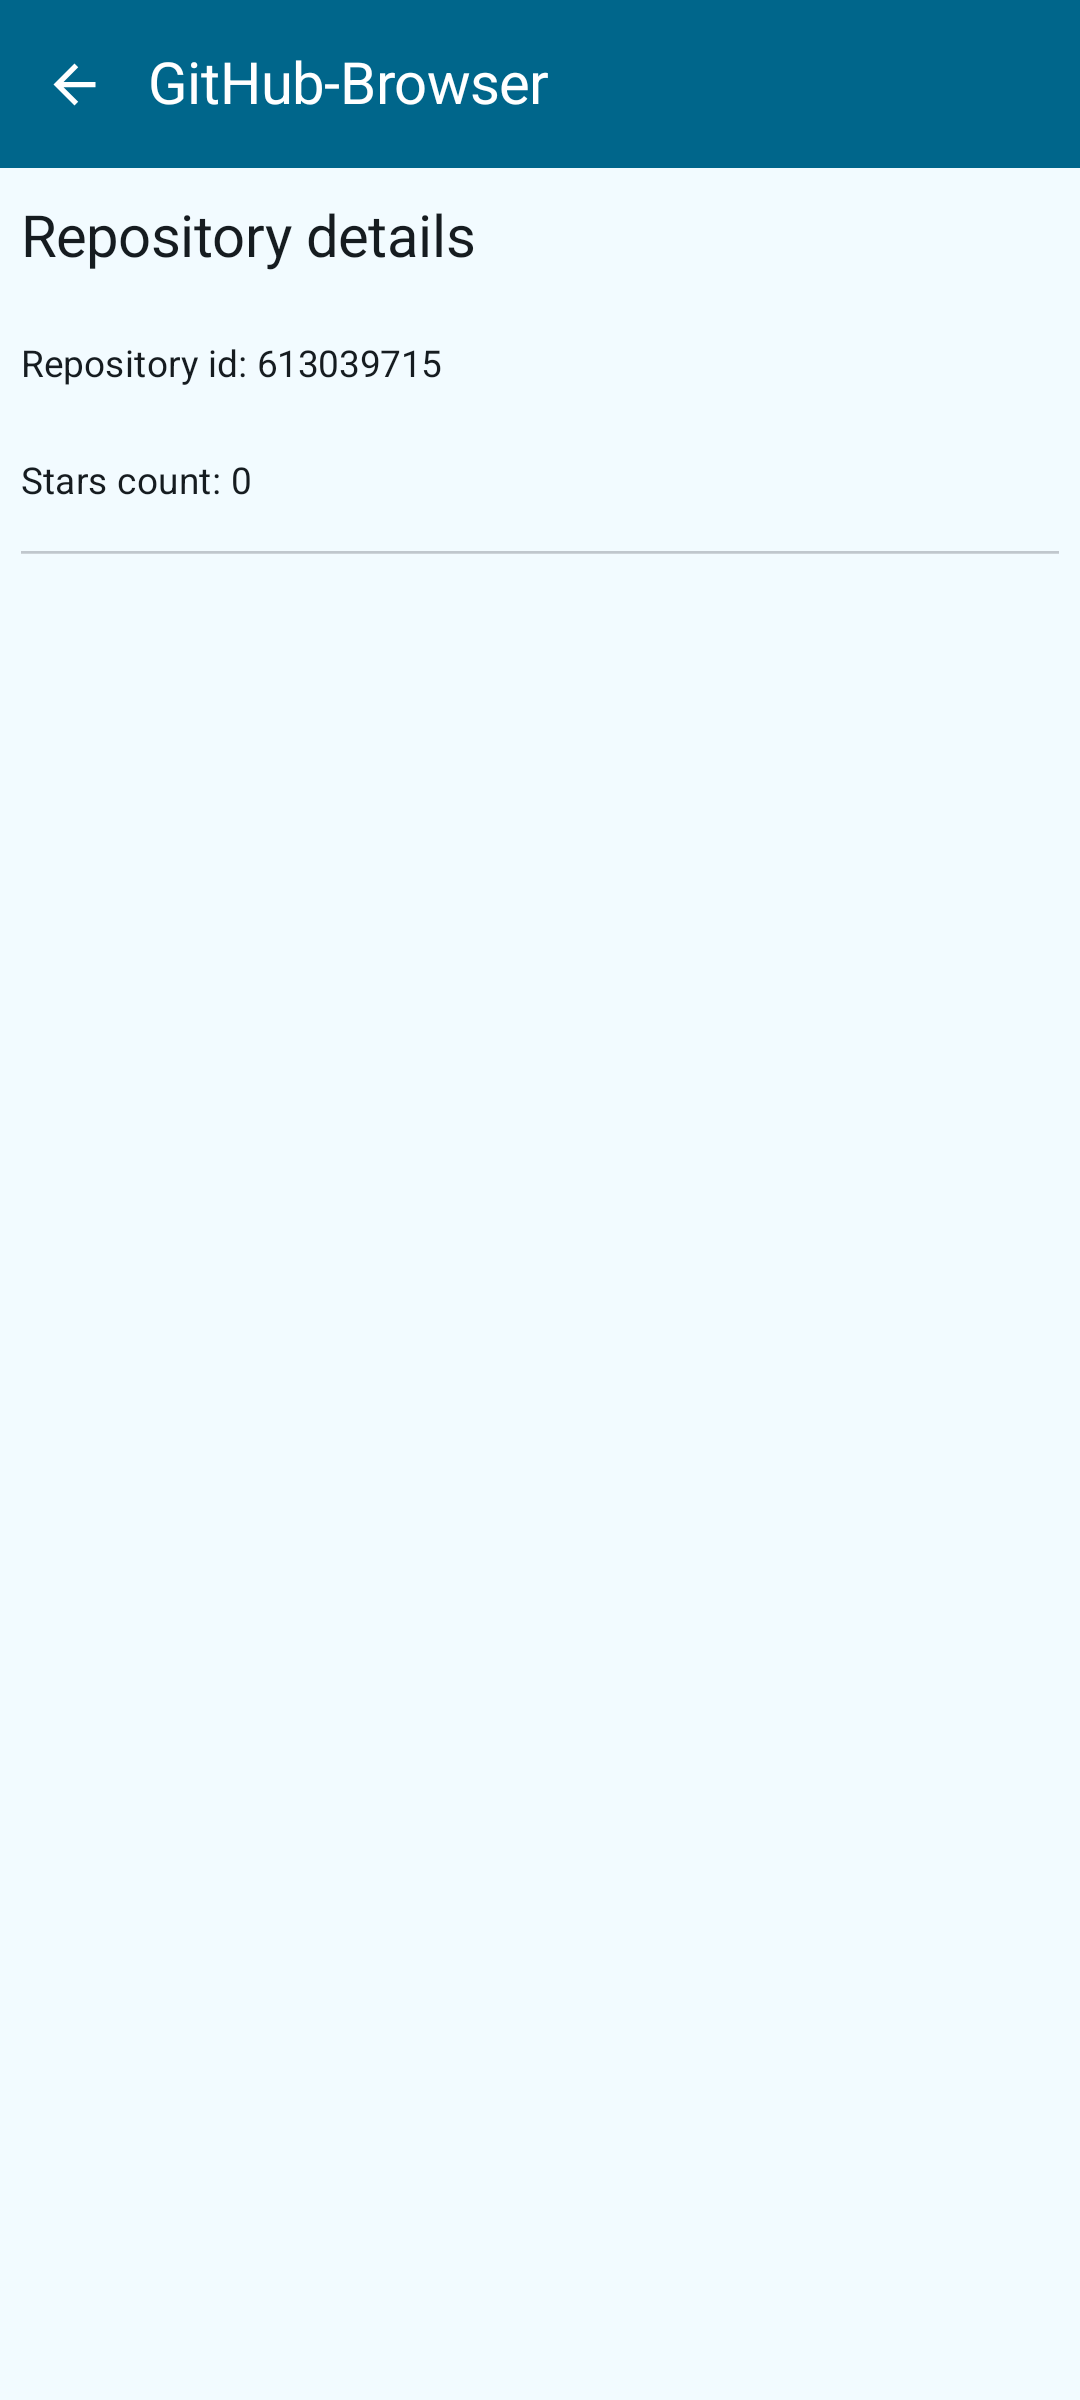
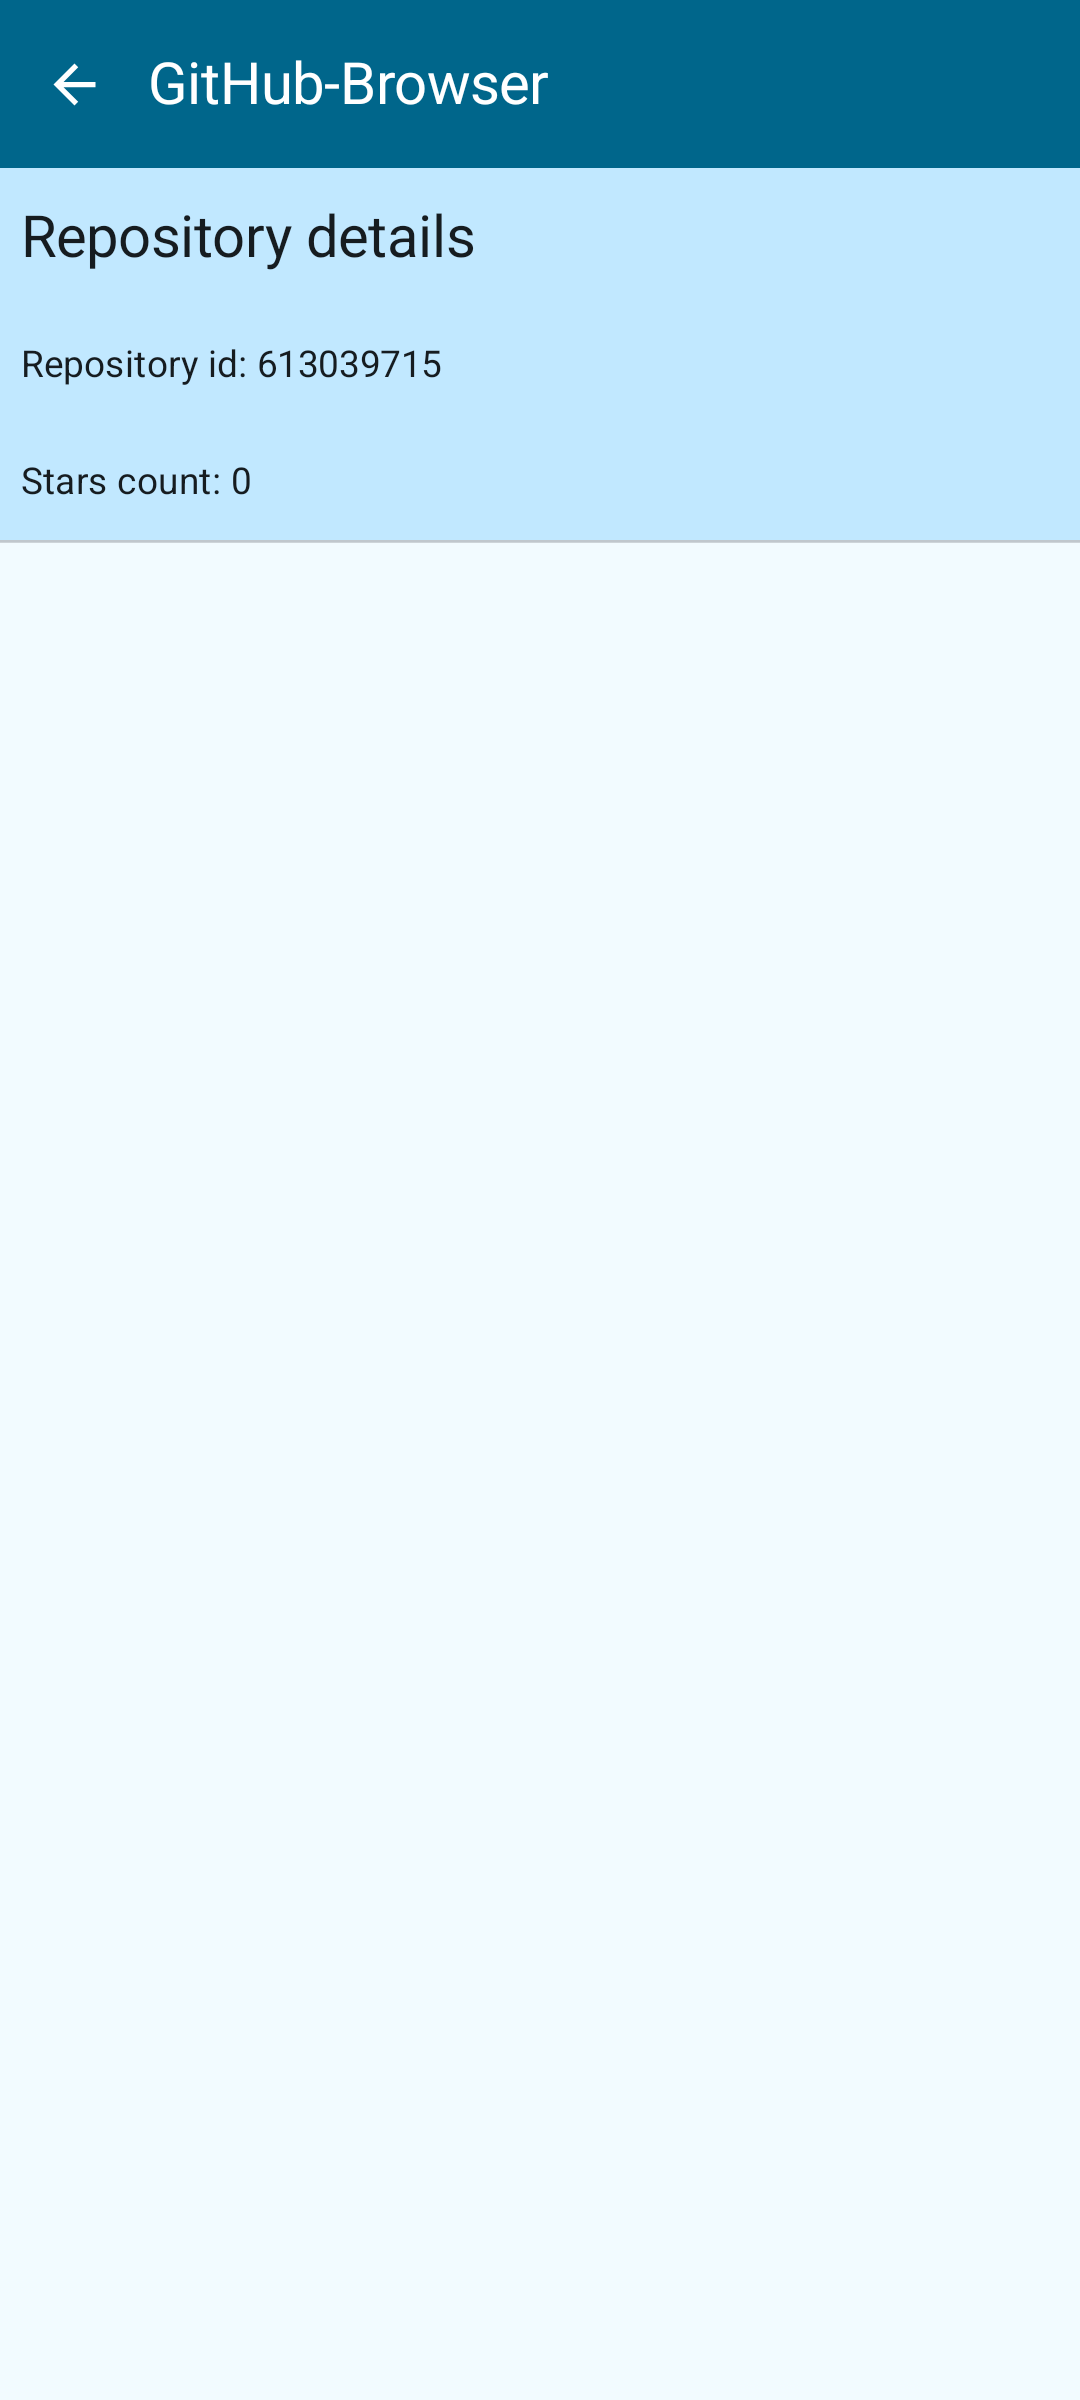
feat: Updated styling

Changed region(s): [[0.0, 0.0625, 1.0, 0.25]]

diff --git a/feature/repo/src/main/java/pl/dtokarzewski/github/feature/repo/ui/RepoScreen.kt b/feature/repo/src/main/java/pl/dtokarzewski/github/feature/repo/ui/RepoScreen.kt
@@ -1,5 +1,6 @@
 package pl.dtokarzewski.github.feature.repo.ui
 
+import androidx.compose.foundation.background
 import androidx.compose.foundation.layout.Column
 import androidx.compose.foundation.layout.fillMaxWidth
 import androidx.compose.foundation.layout.padding
@@ -16,6 +17,7 @@ import androidx.compose.runtime.collectAsState
 import androidx.compose.runtime.getValue
 import androidx.compose.ui.Modifier
 import androidx.compose.ui.res.stringResource
+import androidx.compose.ui.text.font.FontWeight
 import androidx.compose.ui.tooling.preview.Preview
 import androidx.compose.ui.unit.dp
 import androidx.hilt.navigation.compose.hiltViewModel
@@ -71,42 +73,69 @@ fun RepoScreen(
             modifier = Modifier
                 .fillMaxWidth()
                 .padding(it)
-                .padding(horizontal = 8.dp)
         ) {
-            Text(
-                modifier = Modifier.padding(vertical = 12.dp),
-                text = stringResource(id = R.string.repo_details),
-                style = MaterialTheme.typography.titleLarge
-            )
+            Column(
+                modifier = Modifier
+                    .fillMaxWidth()
+                    .background(MaterialTheme.colorScheme.primaryContainer)
+                    .padding(horizontal = 8.dp)
+            ) {
+                Text(
+                    modifier = Modifier.padding(vertical = 12.dp),
+                    text = stringResource(id = R.string.repo_details),
+                    style = MaterialTheme.typography.titleLarge
+                )
 
-            Text(
-                modifier = Modifier.padding(vertical = 12.dp),
-                text = stringResource(
-                    R.string.repo_id,
-                    repo?.id ?: 0
-                ),
-                style = MaterialTheme.typography.bodyMedium
-            )
+                Text(
+                    modifier = Modifier.padding(vertical = 12.dp),
+                    text = stringResource(
+                        R.string.repo_id,
+                        repo?.id ?: 0
+                    ),
+                    style = MaterialTheme.typography.bodyMedium
+                )
 
-            Text(
-                modifier = Modifier.padding(vertical = 12.dp),
-                text = stringResource(
-                    R.string.repo_stars,
-                    repo?.stars ?: 0
-                ),
-                style = MaterialTheme.typography.bodyMedium
-            )
+                Text(
+                    modifier = Modifier.padding(vertical = 12.dp),
+                    text = stringResource(
+                        R.string.repo_stars,
+                        repo?.stars ?: 0
+                    ),
+                    style = MaterialTheme.typography.bodyMedium
+                )
+            }
 
-            HorizontalDivider(
-                modifier = Modifier.padding(vertical = 4.dp)
-            )
+            HorizontalDivider()
 
-            LazyColumn {
+            LazyColumn(
+                modifier = Modifier.padding(horizontal = 8.dp)
+            ) {
                 items(count = commits.itemCount) { index ->
-                    commits[index]?.let {
+                    commits[index]?.let { commit ->
                         Text(
                             modifier = Modifier.padding(vertical = 12.dp),
-                            text = "${it.sha.take(9)} : ${it.commit.author.date}\n${it.commit.message}"
+                            text = stringResource(
+                                id = R.string.commit_sha,
+                                commit.sha.take(9)
+                            ),
+                        )
+                        Text(
+                            modifier = Modifier.padding(vertical = 12.dp),
+                            text = stringResource(
+                                id = R.string.commit_date,
+                                commit.commit.author.date,
+                            ),
+                        )
+                        Text(
+                            modifier = Modifier.padding(vertical = 12.dp),
+                            text = stringResource(
+                                R.string.commit_message,
+                                commit.commit.message,
+                            ),
+                            fontWeight = FontWeight.W400,
+                        )
+                        HorizontalDivider(
+                            modifier = Modifier.padding(vertical = 4.dp)
                         )
                     }
                 }
@@ -116,7 +145,7 @@ fun RepoScreen(
 }
 
 @Composable
-@Preview(name = "RepoScreen", device = "id:pixel_5")
+@Preview(name = "RepoScreen", device = "id:pixel_5", apiLevel = 34)
 fun RepoScreenPreview() {
     GitHubTheme {
         RepoScreen(

diff --git a/feature/search/src/main/java/pl/dtokarzewski/github/search/ui/SearchScreen.kt b/feature/search/src/main/java/pl/dtokarzewski/github/search/ui/SearchScreen.kt
@@ -1,7 +1,7 @@
 package pl.dtokarzewski.github.search.ui
 
+import androidx.compose.foundation.background
 import androidx.compose.foundation.clickable
-import androidx.compose.foundation.layout.Arrangement
 import androidx.compose.foundation.layout.Box
 import androidx.compose.foundation.layout.Column
 import androidx.compose.foundation.layout.fillMaxSize
@@ -42,7 +42,7 @@ import pl.dtokarzewski.github.core.model.Repo
 import pl.dtokarzewski.github.core.ui.ErrorSnackbar
 import pl.dtokarzewski.github.core.ui.LocalSnackbarHostState
 import pl.dtokarzewski.github.feature.search.R
-import pl.dtokarzewski.githubbrowser.core.designsystem.Black40
+import pl.dtokarzewski.github.core.designsystem.Black40
 
 // TODO rename to SearchScreen - overloading constructor will work
 @Composable
@@ -95,6 +95,7 @@ fun SearchScreen(
     Column(
         modifier = Modifier
             .fillMaxSize()
+            .background(MaterialTheme.colorScheme.background)
             .padding(horizontal = 12.dp, vertical = 16.dp)
     ) {
 

diff --git a/feature/search/src/screenshotTest/java/pl/dtokarzewski/github/search/ui/SearchScreenTest.kt b/feature/search/src/screenshotTest/java/pl/dtokarzewski/github/search/ui/SearchScreenTest.kt
@@ -4,6 +4,7 @@ import androidx.compose.material3.SnackbarHostState
 import androidx.compose.runtime.Composable
 import androidx.compose.ui.tooling.preview.Preview
 import pl.dtokarzewski.github.core.designsystem.GitHubTheme
+import pl.dtokarzewski.github.core.model.testdata.repoTestData
 
 class SearchScreenTest {
 
@@ -15,7 +16,8 @@ class SearchScreenTest {
                 uiState = SearchUiState.Idle(
                     query = "dtokarzewski/GitHub",
                     isQueryValid = true,
-                    allRepos = emptyList()),
+                    allRepos = listOf(repoTestData())
+                ),
                 onRepoNameChanged = {},
                 onSearchClicked = {},
                 onRepoClicked = {},

diff --git a/core/designsystem/src/main/java/pl/dtokarzewski/github/core/designsystem/Theme.kt b/core/designsystem/src/main/java/pl/dtokarzewski/github/core/designsystem/Theme.kt
@@ -1,16 +1,10 @@
 package pl.dtokarzewski.github.core.designsystem
 
-import android.app.Activity
 import android.os.Build
 import androidx.compose.foundation.isSystemInDarkTheme
 import androidx.compose.material3.*
 import androidx.compose.runtime.Composable
-import androidx.compose.runtime.SideEffect
-import androidx.compose.ui.graphics.toArgb
 import androidx.compose.ui.platform.LocalContext
-import androidx.compose.ui.platform.LocalView
-import androidx.core.view.ViewCompat
-import pl.dtokarzewski.githubbrowser.core.designsystem.*
 
 private val DarkColorScheme = darkColorScheme(
     primary = Purple80,

diff --git a/core/designsystem/src/main/java/pl/dtokarzewski/github/core/designsystem/Color.kt b/core/designsystem/src/main/java/pl/dtokarzewski/github/core/designsystem/Color.kt
@@ -1,4 +1,4 @@
-package pl.dtokarzewski.githubbrowser.core.designsystem
+package pl.dtokarzewski.github.core.designsystem
 
 import androidx.compose.ui.graphics.Color
 

diff --git a/README.md b/README.md
@@ -7,7 +7,7 @@ playground for testing various architecture solutions and new libraries.
 
 Introduction
 -------------
-![Search Screen](docs/images/SearchScreenPreview.png) ![Repo Screen](docs/images/RepoScreenPreview.png)
+<img src="docs/images/SearchScreenPreview.png" height="240> <img src="docs/images/RepoScreenPreview.png" height="240>
 
 ### Functionality
 The app is very basic GitHub browser. It allows you to search for GitHub repos and see it's details
